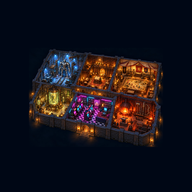
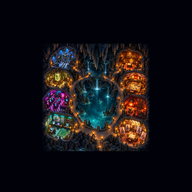
공방 지도를 대미궁으로 — 가운데 지하 호수를 도는 길, 방 여덟(도트 공방·이미지 공방 더함)
드래곤 라자의 대미궁 묘사(절벽 폭포 옆 동굴 입구, 자연석 위·가공 벽 아래, 거대한 공동과 지하 호수, 종유석, 여러 통로)를 본뜬 세로 지도(2048×3072).
왼쪽 넷 격납고·연구소·오락실·도트 공방, 오른쪽 넷 서재·군막·대장간·이미지 공방. 방 다각형·이름표·등불 길을 1024 기준으로 다시 쟀다.
가로 화면은 너비를 정해 굴려 보고, 다가가면 문 패널이 화면 위에 붙는다. 아이콘도 새 지도에서.

원본 PNG sha256 c0a207136274cb0604f422c537f0bae0c3819c296436487b67c86d37c2057af8

Claude-Session: https://claude.ai/code/session_01PEziFLhr3H4Gr1UuDJAJLw

Changed region(s): [[0.125, 0.2188, 0.875, 0.8125]]

diff --git a/index.html b/index.html
@@ -6,9 +6,9 @@
 <title>공방 모음</title>
 <meta name="description" content="건담 · 삼국지 · 포켓몬 · 신화 무기 · 책 — 공방 지도에서 방을 골라 들어간다.">
 <meta name="theme-color" content="#0f0e12">
-<link rel="icon" href="icon-192.png?v=2">
+<link rel="icon" href="icon-192.png?v=3">
 <link rel="manifest" href="app.webmanifest">
-<link rel="apple-touch-icon" href="icon-180.png?v=2">
+<link rel="apple-touch-icon" href="icon-180.png?v=3">
 <meta name="apple-mobile-web-app-capable" content="yes">
 <meta name="mobile-web-app-capable" content="yes">
 <meta name="apple-mobile-web-app-status-bar-style" content="black-translucent">
@@ -17,7 +17,8 @@
 <link rel="preconnect" href="https://fonts.gstatic.com" crossorigin>
 <link rel="stylesheet" href="https://fonts.googleapis.com/css2?family=Noto+Serif+KR:wght@500;700;900&display=swap">
 <!--
-  첫 화면 = 공방 지도 한 장(img/map.webp 2896×2172 — 지붕을 걷어낸 큰 건물, 방 여섯 — 위 셋·아래 셋). 방 자리는 ROOMS 표의 다각형(1448×1086 기준 좌표 — 그림은 그 2배라 비율로 맞는다)이고
+  첫 화면 = 공방 지도 한 장(img/map.webp 2048×3072 세로 — 산속 드워프 대미궁, 2026-10-30). 절벽 폭포 옆 동굴 입구 → 계단 → 가운데 둥근 지하 호수를 도는 길 → 왼쪽 넷·오른쪽 넷의 방 여덟.
+  방 자리는 ROOMS 표의 다각형(1024×1536 기준 좌표 — 그림은 그 2배라 비율로 맞는다)이고
   SVG viewBox 가 그림 크기라 화면이 바뀌어도 같이 늘어난다. 글자는 그림에 없다 — 이름표·미리보기는 화면이 얹는다.
   방에 올리면 빛나고 이름·대표 그림이 뜬다. 누르면 지도가 그 방으로 다가가고(transform) 그 공방의 문들(하위 링크)이 보인다.
   주소에 #gundam 처럼 남아 뒤로 가기·공유가 된다. 등불이 복도를 오간다(SMIL). 지도 아래 "모든 공방" 목록은 지도가 불편한 사람·화면 읽기 프로그램의 길.
@@ -50,7 +51,7 @@ a { color: inherit; }
 
 /* ── 지도 ── */
 .map { position: relative; max-width: 1280px; margin: 0 auto; padding: 0 8px; display: grid; gap: 10px; grid-template-columns: minmax(0, 1fr); }
-.stage { position: relative; aspect-ratio: 1448 / 1086; width: 100%; overflow: hidden; border-radius: 14px; background: #06070b radial-gradient(70% 60% at 50% 45%, #1b1726, #06070b 70%); isolation: isolate; }
+.stage { position: relative; aspect-ratio: 1024 / 1536; width: 100%; overflow: hidden; border-radius: 14px; background: #06070b radial-gradient(70% 60% at 50% 45%, #1b1726, #06070b 70%); isolation: isolate; }
 .inner { position: absolute; inset: 0; transform-origin: 0 0; transition: transform .7s cubic-bezier(.2, .8, .2, 1); will-change: transform; }
 .inner > img { position: absolute; inset: 0; width: 100%; height: 100%; object-fit: fill; display: block; }
 .inner > svg { position: absolute; inset: 0; width: 100%; height: 100%; display: block; }
@@ -103,11 +104,12 @@ a { color: inherit; }
 .links a.main:hover { color: #111; filter: brightness(1.08); }
 .doors .back { margin-top: 12px; }
 .hint { max-width: 1280px; margin: 6px auto 0; padding: 0 16px; color: #6f6973; font-size: 12px; text-align: center; }
-/* 가로 — 지도가 화면 높이에 들어가게(4:3 그대로, 너비를 줄인다). 다가가면 문 패널이 오른쪽에 */
+/* 가로 — 세로로 긴 지도(2:3)라 화면 높이에 넣으면 너무 작다(2026-10-30) — 너비를 정해 두고 굴려 본다. 다가가면 문 패널이 오른쪽에 */
 @media (orientation: landscape) {
-  .stage { width: min(100%, calc((100dvh - 96px) * 1448 / 1086)); margin: 0 auto; }
+  .stage { width: min(100%, 720px); margin: 0 auto; }
   .map.zoomed { grid-template-columns: minmax(0, 1fr) minmax(260px, 340px); align-items: start; }
-  .map.zoomed .stage { width: 100%; }
+  .map.zoomed .stage { width: min(100%, 720px); }
+  .map.zoomed .doors { position: sticky; top: 12px; }   /* 다가간 방은 긴 무대 가운데 — 굴려 내려와도 문 패널이 화면 위에 남는다 */
 }
 @media (orientation: landscape) and (max-height: 500px) {
   /* 제목·안내를 지도 위에 겹쳐 지도가 높이를 다 쓴다 */
@@ -116,15 +118,12 @@ a { color: inherit; }
   .head p, .head h1 { pointer-events: auto; text-shadow: 0 2px 8px #000; }
   .head h1 { font-size: 18px; } .head h1 small { display: none; }
   .map { padding-top: calc(4px + env(safe-area-inset-top)); }
-  .stage { width: min(100%, calc((100dvh - 8px - env(safe-area-inset-top)) * 1448 / 1086)); }
+  .stage { width: min(100%, 520px); }
+  .map.zoomed .stage { width: min(100%, 520px); }
   .hint { display: none; }
   body.zoomed .head { display: none; }   /* 다가가면 제목·안내 글이 확대된 그림·문 패널과 겹친다 — 숨긴다("← 지도로" 가 길) */
   .doors { padding: 10px 12px 12px; } .doors h2 { font-size: 22px; } .doors p { margin: 6px 0 10px; font-size: 13px; }
   .links a, .links button { min-height: 38px; padding: 0 12px; font-size: 13px; }
-}
-/* 폰 세로 — 다가가면 무대를 조금 키워(4:3 보다 높게) 방이 크게 보이게 */
-@media (max-width: 760px) and (orientation: portrait) {
-  .map.zoomed .stage { aspect-ratio: auto; height: 58vh; }
 }
 
 /* ── 맨 아래 — 모든 공방 한눈에. 지도가 불편할 때의 길이라 짧게: 한 공방 = 한 줄(작은 그림 · 이름 · 문들) ──
@@ -184,15 +183,15 @@ footer { position: relative; z-index: 2; background: var(--bg); text-align: cent
 <section class="map" id="map" aria-label="공방 지도">
   <div class="stage" id="stage">
     <div class="inner" id="inner">
-      <img src="img/map.webp" alt="지붕을 걷어낸 큰 건물 안에 방 여섯 — 격납고·서재·군막·연구소·오락실·대장간" decoding="async" fetchpriority="high">
-      <svg id="svg" viewBox="0 0 1448 1086" aria-hidden="true" focusable="false">
+      <img src="img/map.webp?v=3" alt="산속 대미궁 — 절벽 폭포 옆 동굴 입구에서 계단을 올라 가운데 지하 호수를 도는 길, 왼쪽에 격납고·연구소·오락실·도트 공방, 오른쪽에 서재·군막·대장간·이미지 공방" decoding="async" fetchpriority="high">
+      <svg id="svg" viewBox="0 0 1024 1536" aria-hidden="true" focusable="false">
         <defs>
           <filter id="glow" x="-20%" y="-20%" width="140%" height="140%"><feGaussianBlur stdDeviation="10" result="b"/><feMerge><feMergeNode in="b"/><feMergeNode in="SourceGraphic"/></feMerge></filter>
           <filter id="lamp" x="-200%" y="-200%" width="500%" height="500%"><feGaussianBlur stdDeviation="5" result="b"/><feMerge><feMergeNode in="b"/><feMergeNode in="b"/><feMergeNode in="SourceGraphic"/></feMerge></filter>
-          <!-- 복도 — 등불이 다니는 길. 그림을 바꾸면 같이 다시 긋는다(2026-10-26 오락실이 옛 복도 자리에 들어와 첫 길은 입구에서 오락실을 지나 뒤 복도로) -->
-          <path id="way1" d="M 615 905 C 630 760, 640 600, 660 470 C 700 440, 800 440, 900 450 C 980 455, 1000 480, 960 500"/>
-          <path id="way2" d="M 660 470 C 640 420, 600 420, 560 410 C 480 395, 300 400, 150 420 C 280 405, 500 410, 630 430"/>
-          <path id="way3" d="M 1300 560 C 1200 540, 1100 520, 980 500 C 900 480, 760 460, 690 480 C 760 500, 900 520, 1300 560"/>
+          <!-- 길 — 등불이 다니는 길(1024×1536). 동굴 입구 계단을 올라 호수 앞 길로, 호수를 왼쪽·오른쪽으로 돌아 뒤에서 만난다. 그림을 바꾸면 같이 다시 긋는다 -->
+          <path id="way1" d="M 555 1475 C 560 1380, 575 1300, 585 1240 C 600 1150, 570 1050, 545 975 C 520 905, 440 865, 340 840"/>
+          <path id="way2" d="M 340 840 C 300 760, 290 640, 300 520 C 310 440, 360 400, 450 380 C 500 370, 560 370, 600 380"/>
+          <path id="way3" d="M 690 830 C 730 760, 745 640, 725 520 C 705 440, 660 400, 600 380 C 560 370, 500 372, 450 380"/>
         </defs>
         <g id="rooms"></g>
         <g id="glows"></g>
@@ -214,51 +213,62 @@ footer { position: relative; z-index: 2; background: var(--bg); text-align: cent
   <p>바로 들어가기</p>
   <div class="grid" id="cards"></div>
   <p class="all-fav"><a href="favorites.html" id="fav-all"><span aria-hidden="true">♡</span> 내 즐겨찾기 <i id="fav-all-n">공방 도감에서 하트로 담은 그림을 한곳에서</i></a>
-    <a href="dot.html" id="dot-all"><span aria-hidden="true">▦</span> 도트 공방 <i>다섯 공방 인물의 도트 — 지시문·그리기·정리기</i></a>
-    <a href="prompt.html" id="prompt-all"><span aria-hidden="true">✎</span> 통합 생성기 <i>네 공방 일상컷 지시문 — 트리대로 한 단계씩</i></a></p>
+</p>
 </section>
 <footer>polos0117 · 개인 공방 · 홈 화면에 추가하면 앱처럼 열린다</footer>
 
 <script src="today.js"></script>
 <script src="favorites.js"></script>
 <script>
-/* 방 표 — 다각형은 img/map.webp 의 픽셀 좌표(1448×1086). 꼭짓점은 방을 두른 벽 윗면의 안쪽 모서리(그림 위에 겹쳐 따 맞춘다 — 2026-10-20 처음 것은 기울기가 반대로 돌아 있었다). 그림을 바꾸면 여기만 다시 잰다.
+/* 방 표 — 다각형은 img/map.webp 의 픽셀 좌표(1024×1536 기준). 꼭짓점은 바위에 판 방의 벽 테두리(그림 위에 겹쳐 따 맞춘다). 그림을 바꾸면 여기만 다시 잰다.
+   대미궁 지도(2026-10-30) — 왼쪽 위에서부터 격납고·연구소·오락실·도트 공방, 오른쪽 위에서부터 서재·군막·대장간·이미지 공방.
    at: 이름표 자리, peek: 미리보기 그림(각 공방의 그림 저장소), links: 문들(첫 번째가 큰 문), daily: 오늘의 판(날짜가 씨앗 — 그 공방이 ?daily 를 읽는다) */
 const ROOMS = [
   { key: 'gundam', name: '건담 격납고', title: '건담 드래프트', sub: '기동전사 · 3D 격납고', num: '01 / HANGAR', c: '#7fb3ff', tint: '#151a21',
-    poly: [[232, 48], [578, 62], [505, 388], [92, 358]], at: [380, 230],
+    poly: [[90, 110], [300, 95], [330, 270], [300, 295], [85, 285], [60, 200]], at: [200, 190],
     peek: '/atelier/img/thumb/RX-78-2_건담_f.webp', cover: '/atelier/img/thumb/RX-78-2_건담_f.webp',
     desc: '3D 격납고를 걸어 다니며 기체를 둘러보고, 드래프트로 출격한다.',
     links: [['격납고', '/atelier/'], ['드래프트', '/atelier/play.html'], ['도감', '/atelier/dex.html'], ['프롬프트', '/atelier/prompt.html']], daily: '/atelier/play.html?daily' },
   { key: 'book', name: '책의 서재', title: '책의 공방', sub: '고전 · 발단 · 전개 · 결말', num: '02 / LIBRARY', c: '#e39b6b', tint: '#1c1210',
-    poly: [[615, 65], [952, 108], [885, 440], [548, 400]], at: [770, 270],
+    poly: [[720, 120], [960, 110], [980, 230], [960, 310], [720, 310], [700, 210]], at: [840, 210],
     peek: '/book-atelier-img/img/thumb/don_quixote_middle_literary_fantasy_f.webp', cover: '/book-atelier-img/img/thumb/don_quixote_middle_literary_fantasy_f.webp',
     desc: '도서관에서 깨어난 책들이, 자신의 이야기를 세상에 남기기 위해 싸운다. 책 한 권이 한 사람이 된다. 결투 한 판, 서고를 아홉 층 내려가는 탐험.',
     links: [['서재', '/book-atelier/'], ['서가', '/book-atelier/dex.html'], ['결투', '/book-atelier/duel.html'], ['탐험', '/book-atelier/run.html'], ['프롬프트', '/book-atelier/prompt.html']], daily: '/book-atelier/duel.html?daily' },
   { key: 'samguk', name: '삼국지 군막', title: '삼국지 쟁탈전', sub: '장수를 뽑아 진영을 꾸린다', num: '03 / 竹簡', c: '#c9a227', tint: '#17130f',
-    poly: [[962, 112], [1340, 172], [1300, 548], [898, 462]], at: [1150, 320],
+    poly: [[780, 330], [990, 340], [1000, 450], [980, 540], [760, 540], [740, 430]], at: [870, 440],
     peek: '/sam-atelier/images/large/관우.jpg', cover: '/sam-atelier/images/large/관우.jpg',
     desc: '위·촉·오의 장수들을 드래프트로 모아 한 진영을 짠다.',
     links: [['들어가기', '/sam-atelier/']], daily: '/sam-atelier/?daily' },
   { key: 'pokemon', name: '포켓몬 연구소', title: '포켓몬 메카 연구소', sub: '메카 의인화 · 연구소', num: '04 / LAB', c: '#f4c542', tint: '#2a2718',
-    poly: [[95, 425], [470, 450], [405, 748], [105, 700]], at: [280, 580],
+    poly: [[40, 320], [270, 300], [295, 420], [270, 490], [60, 480], [15, 400]], at: [155, 400],
     peek: '/pkm-atelier-img/img/thumb/피카츄_heavy_cinematic_semi_real_f.webp', cover: '/pkm-atelier-img/img/thumb/피카츄_heavy_cinematic_semi_real_f.webp',
     desc: '포켓몬을 메카로 의인화한 도감과 전투, 일곱 판 달리기, 진화 결투, 폼 결투.',
     links: [['연구소', '/pkm-atelier/'], ['도감', '/pkm-atelier/dex.html'], ['전투', '/pkm-atelier/battle.html'], ['런', '/pkm-atelier/run.html'], ['결투', '/pkm-atelier/lane.html'], ['폼 결투', '/pkm-atelier/gwent.html'], ['프롬프트', '/pkm-atelier/prompt.html']], daily: '/pkm-atelier/survey.html?daily' },
   { key: 'myth', name: '신화 무기 대장간', title: '신화 무기 공방', sub: '열한 권 · 백여든일곱 자루', num: '05 / FORGE', c: '#d9b45a', tint: '#121016',
-    poly: [[950, 535], [1342, 605], [1305, 878], [885, 848]], at: [1110, 710],
+    poly: [[770, 560], [990, 560], [1010, 660], [990, 750], [760, 750], [745, 660]], at: [875, 655],
     peek: '/myth-atelier-img/img/thumb/묠니르_game_keyart_f.webp', cover: '/myth-atelier-img/img/thumb/묠니르_game_keyart_f.webp',
     desc: '신화 속 무기가 사람이 되어 싸운다. 오토 배틀러·결투와 3D 박물관.',
     links: [['공방', '/myth-atelier/'], ['오토 배틀', '/myth-atelier/auto.html'], ['박물관', '/myth-atelier/museum.html'], ['도감', '/myth-atelier/dex.html'], ['드래프트', '/myth-atelier/draft.html'], ['던전', '/myth-atelier/run.html'], ['결투', '/myth-atelier/duel.html'], ['프롬프트', '/myth-atelier/prompt.html']], daily: '/myth-atelier/duel.html?daily' },
   /* 오락실(2026-10-26) — 옛 아래 가운데 복도 자리, 앞 계단 입구가 이리로 열린다. 미리보기는 테트리스 타이틀 폼(시범 그림, 2026-10-26).
      오늘의 판(daily)은 결투가 붙으면 적는다 — 없으면 문 패널에 그 문을 두지 않는다 */
   { key: 'game', name: '게임 오락실', title: '게임의 공방', sub: '게임 의인화 · 타이틀 · 중반 · 엔딩', num: '06 / ARCADE', c: '#ff6ad5', tint: '#1d1020',
-    poly: [[505, 488], [935, 528], [868, 838], [425, 785]], at: [680, 660],
+    poly: [[20, 505], [250, 505], [275, 610], [255, 690], [15, 690], [0, 600]], at: [135, 600],
     peek: '/game-atelier-img/img/thumb/tetris_title_glossy_kr_game_f.webp', cover: '/game-atelier-img/img/thumb/tetris_title_glossy_kr_game_f.webp',
     desc: '게임 한 편이 한 사람이 되고, 그 게임의 조작이 그녀의 능력이 된다. 첫 묶음 열 편의 도감과 그림 프롬프트.',
     links: [['첫 화면', '/game-atelier/'], ['도감', '/game-atelier/dex.html'], ['프롬프트', '/game-atelier/prompt.html']] },
+  /* 도트 공방·이미지 공방(2026-10-30) — 대미궁 지도의 앞 두 방. 허브 안의 쪽이라 문은 하나씩, 미리보기는 지도의 그 방 */
+  { key: 'dot', name: '도트 공방', title: '도트 공방', sub: '다섯 공방 인물의 도트', num: '07 / PIXEL', c: '#5fe3c0', tint: '#0f1c1a',
+    poly: [[30, 720], [290, 720], [310, 850], [290, 990], [110, 1000], [20, 880]], at: [165, 860],
+    peek: 'img/room-dot.webp', cover: 'img/room-dot.webp',
+    desc: '다섯 공방 인물을 도트로 — 지시문을 만들고, 그리고, 격자에 맞춰 정리한다.',
+    links: [['도트 공방', '/dot.html']] },
+  { key: 'image', name: '이미지 공방', title: '이미지 공방', sub: '통합 생성기 · 네 공방 그림 지시문', num: '08 / STUDIO', c: '#f3b8a6', tint: '#1e1514',
+    poly: [[720, 775], [980, 775], [1000, 900], [970, 1030], [760, 1030], [700, 900]], at: [850, 905],
+    peek: 'img/room-image.webp', cover: 'img/room-image.webp',
+    desc: '게임·책·신화·포켓몬 네 공방의 그림 지시문을 한곳에서 — 고르면 다음 단계로, 계획을 불러와 한 단계씩.',
+    links: [['통합 생성기', '/prompt.html']] },
 ];
-const IW = 1448, IH = 1086;
+const IW = 1024, IH = 1536;
 const $ = s => document.querySelector(s);
 const map = $('#map'), stage = $('#stage'), inner = $('#inner'), rooms = $('#rooms'), pins = $('#pins'), doors = $('#doors'), cards = $('#cards'), glows = $('#glows');
 const T = window.AtelierToday;   /* 오늘 기록(today.js) — 각 공방이 적고 지도가 읽는다 */
@@ -367,7 +377,8 @@ function enter(k, push) {
   $('#back').addEventListener('click', () => leave(true));
   if (push && location.hash !== '#' + k) history.pushState({ room: k }, '', '#' + k);
   requestAnimationFrame(fit);
-  if (innerWidth < 900 || innerHeight < innerWidth) stage.scrollIntoView({ block: 'start', behavior: 'smooth' });
+  /* 세로로 긴 지도 — 무대가 화면보다 크면 다가간 방(무대 가운데)이 보이게 가운데로, 아니면 무대 위로 */
+  if (innerWidth < 900 || innerHeight < innerWidth) stage.scrollIntoView({ block: stage.offsetHeight > innerHeight ? 'center' : 'start', behavior: 'smooth' });
 }
 function leave(push) {
   on = null; setHot(null);

diff --git a/tools/icon-from-map.py b/tools/icon-from-map.py
@@ -1,5 +1,5 @@
 #!/usr/bin/env python3
-"""앱 아이콘 — 공방 지도 그림(img/map.webp)에서 건물을 잘라 만든다(2026-10-26, 방 여섯 지도부터).
+"""앱 아이콘 — 공방 지도 그림(img/map.webp)에서 가운데를 잘라 만든다(2026-10-26 방 여섯 지도부터, 2026-10-30 대미궁 지도 — 호수와 방 여덟을 네모로).
 
   python3 tools/icon-from-map.py
 
@@ -13,8 +13,8 @@ import numpy as np
 
 ROOT = os.path.dirname(os.path.dirname(os.path.abspath(__file__)))
 src = Image.open(os.path.join(ROOT, 'img', 'map.webp')).convert('RGB')
-k = src.size[0] / 1448                                   # 좌표는 1448 기준(ROOMS 와 같다)
-crop = src.crop((int(15 * k), int(10 * k), int(1435 * k), int(1060 * k)))
+k = src.size[0] / 1024                                   # 좌표는 1024 기준(ROOMS 와 같다)
+crop = src.crop((int(0 * k), int(60 * k), int(1024 * k), int(1084 * k)))   # 세로 그림 — 방 여덟과 호수가 든 위쪽 네모
 a = np.array(src)
 corners = np.concatenate([a[:40, :40].reshape(-1, 3), a[:40, -40:].reshape(-1, 3), a[-40:, :40].reshape(-1, 3), a[-40:, -40:].reshape(-1, 3)])
 BG = tuple(int(x) for x in np.median(corners, axis=0))

diff --git a/README.md b/README.md
@@ -3,7 +3,7 @@
 https://polos0117.github.io/ — 건담 · 삼국지 · 포켓몬 · 신화 무기 · 책 · 게임 여섯 공방으로 들어가는 메인.
 
 - 건담 `/atelier/` · 삼국지 `/sam-atelier/` · 포켓몬 `/pkm-atelier/` · 신화 무기 `/myth-atelier/` · 책 `/book-atelier/`
-- 첫 화면은 **공방 지도** 한 장(`img/map.webp`, 2896×2172 — 1448×1086 을 2배로 올린 것, `ROOMS` 의 좌표·viewBox 는 1448 기준 그대로) — 지붕을 걷어낸 큰 건물 안에 방 여섯(위 격납고·서재·군막, 아래 연구소·오락실·대장간). 오락실(게임의 공방, 2026-10-26)은 옛 아래 가운데 복도 자리에 들어왔고 앞 계단 입구가 그리로 열린다 — 미리보기는 테트리스 타이틀 폼(시범 그림), 오늘의 판은 아직 없다(`daily` 가 없는 방은 그 문을 두지 않는다).
+- 첫 화면은 **공방 지도** 한 장(`img/map.webp`, 2048×3072 세로 — 1024×1536 을 2배로 올린 것, `ROOMS` 의 좌표·viewBox 는 1024 기준 그대로) — 드래곤 라자의 대미궁을 본뜬 산속 드워프 미궁(2026-10-30, 사용자가 대미궁 묘사를 주고 B 안을 골랐다). 절벽 폭포 옆 동굴 입구 → 계단 → 가운데 둥근 지하 호수를 도는 길 → 왼쪽 넷(격납고·연구소·오락실·도트 공방)·오른쪽 넷(서재·군막·대장간·이미지 공방). 도트 공방(`dot.html`)·이미지 공방(통합 생성기 `prompt.html`)은 허브 안의 쪽이라 문이 하나씩이고, 미리보기는 지도의 그 방(`img/room-dot.webp`·`img/room-image.webp`). 세로로 긴 그림이라 가로 화면에선 화면 높이에 넣지 않고 너비(PC 720 · 가로 폰 520)를 정해 굴려 보며, 다가가면 문 패널이 화면 위에 붙는다. 그림은 도트 공방 그리기로 앞 지도를 첨부해 만들었다(원본 PNG sha256 c0a207136274cb0604f422c537f0bae0c3819c296436487b67c86d37c2057af8). 오락실 미리보기는 테트리스 타이틀 폼, 오늘의 판이 없는 방은 그 문을 두지 않는다.
   방에 올리면 빛나고 이름·대표 그림이 뜨고, 누르면 지도가 그 방으로 다가가며 그 공방의 문들(하위 링크)이 보인다. 주소에 `#book` 처럼 남는다.
   등불이 복도를 오간다. 지도 아래 "모든 공방" 목록(한 공방 = 한 줄: 작은 그림 · 이름 · 문들)은 지도가 불편한 사람·화면 읽기 프로그램의 길이고, 지도의 문들과 같은 표(`ROOMS`)에서 나온다.
 - 한 파일(`index.html`)이다. 공방을 더하면 `ROOMS` 에 한 줄(다각형은 그림 픽셀 좌표) — 그림에 방이 없으면 그림 귀퉁이를 인페인팅으로 더한다.
